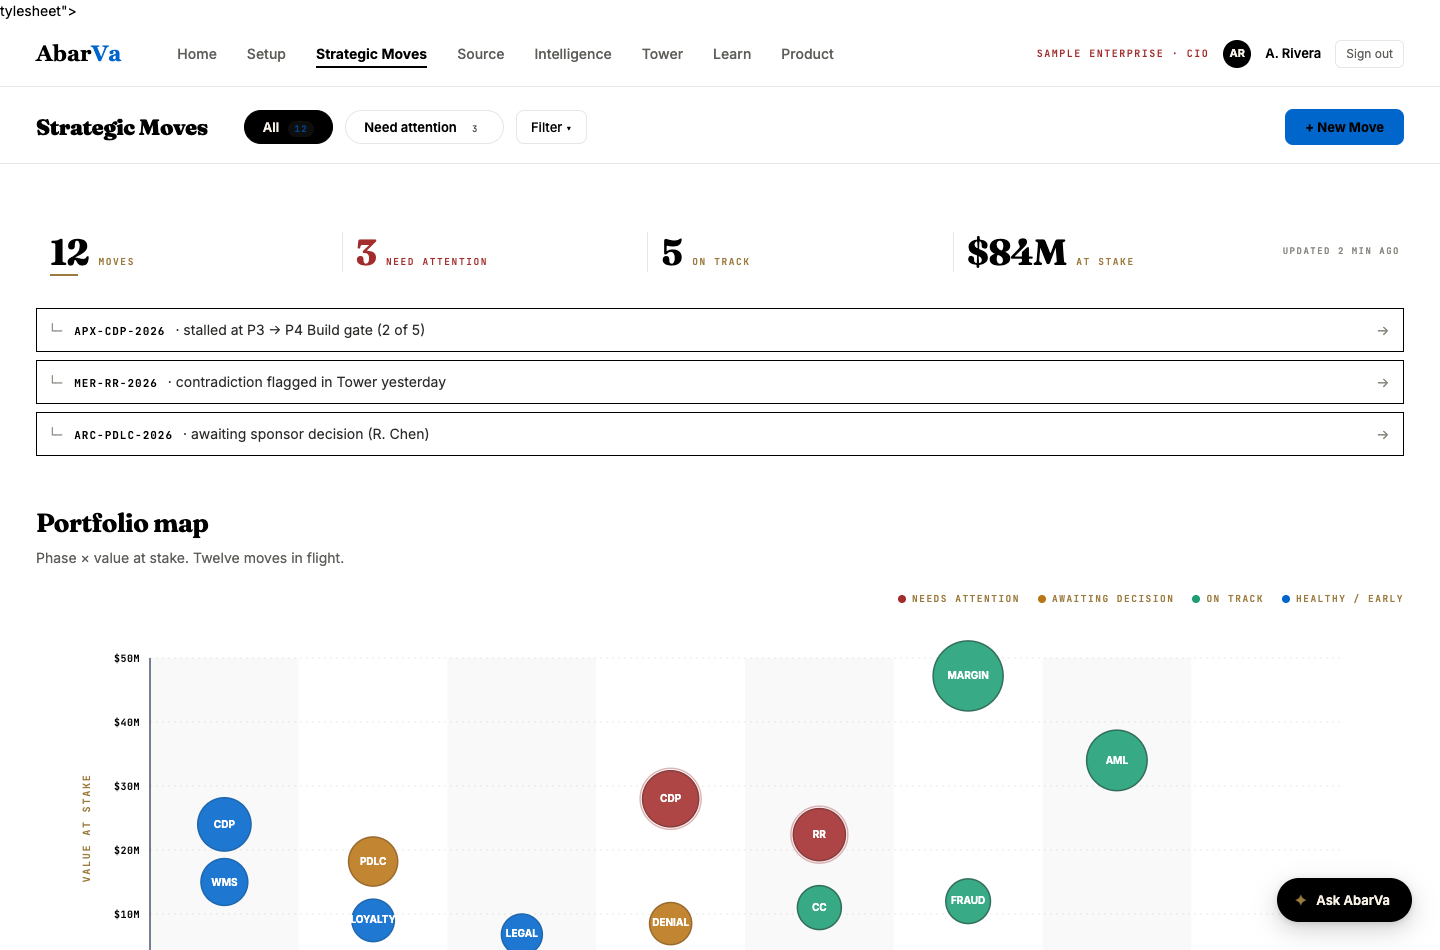
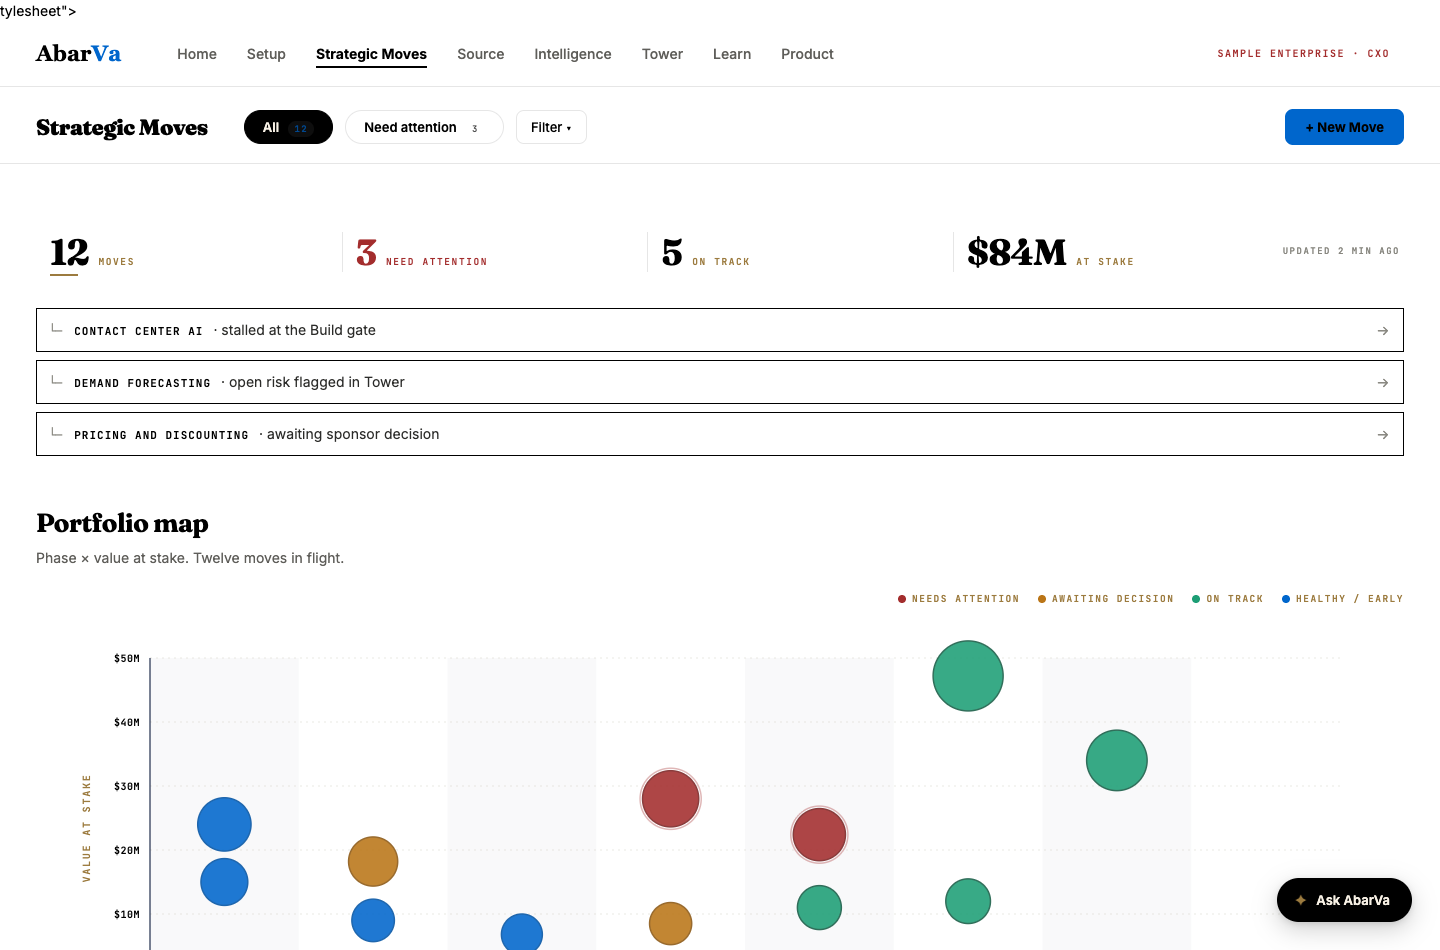
fix(marketing): polish private-preview hero and screenshot

diff --git a/src/components/marketing/LoggedOutLandingPage.tsx b/src/components/marketing/LoggedOutLandingPage.tsx
@@ -1459,11 +1459,12 @@ export function LoggedOutLandingPage({ signedOut = false }: LoggedOutLandingPage
               Private preview · founder-led
             </span>
             <h1 className="fb-head">
-              Turn AI ambition into <span className="grad">governed execution</span> and measurable value.
+              If your enterprise is spending on AI, and you&apos;re the CXO accountable,
+              <span className="grad"> prove which bets deserve to scale</span>.
             </h1>
             <p className="fb-sub">
-              AbarVa helps enterprise leaders decide which AI bets deserve funding, turn them into
-              governed programs, source with leverage, and prove whether value actually landed.
+              AbarVa helps executives see which AI bets are real, which ones need more evidence,
+              and how to move from ambition to governed execution and measurable value.
             </p>
             <div className="fb-cta">
               <button className="btn btn-prime" type="button" onClick={openReq}>

diff --git a/docs/releases/records/2026-06-11-private-preview-landing.md b/docs/releases/records/2026-06-11-private-preview-landing.md
@@ -10,7 +10,7 @@
 `candidate`
 
 ## Plain-English Summary
-Replaces the signed-out marketing landing page (`LoggedOutLandingPage`) with the new founder-led private-preview design: a product-led hero (dark gradient, the real Strategic Moves screenshot, and a connected "three dimensions of value" — Decide / Source / Prove), a graphical "Picture this" three-moment section, the five surfaces, and a "Request access" call to action. No AI-generated human imagery is used; visuals are the real product screenshot and abstract brand graphics.
+Replaces the signed-out marketing landing page (`LoggedOutLandingPage`) with the new founder-led private-preview design: a product-led hero (dark gradient, a no-PII Strategic Moves screenshot, and a connected "three dimensions of value" — Decide / Source / Prove), a graphical "Picture this" three-moment section, the five surfaces, and a "Request access" call to action. No AI-generated human imagery is used; visuals are the product screenshot and abstract brand graphics. The hero copy now addresses the accountable CXO directly instead of using generic AI-ambition framing.
 
 Adds a real backend for the "Request access" form: a public, unauthenticated `POST /api/request-access` that validates a work email, stores the lead in a new `access_requests` table (durable), and notifies `admin@abarva.ai` via Resend. Both the store and the email are best-effort; in production the request only fails if the lead was captured nowhere.
 
@@ -27,19 +27,22 @@ Adds a real backend for the "Request access" form: a public, unauthenticated `PO
 - Feature flag: none
 
 ## Changes Included
-- `src/components/marketing/LoggedOutLandingPage.tsx` — rewritten to the new private-preview design (styled-jsx, no Tailwind), Request-access modal form (client state → `POST /api/request-access`), Option-2 logo from `/brand/`.
+- `src/components/marketing/LoggedOutLandingPage.tsx` — rewritten to the new private-preview design (styled-jsx, no Tailwind), Request-access modal form (client state → `POST /api/request-access`), Option-2 logo from `/brand/`, and CXO-accountable opening copy.
 - `src/app/api/request-access/route.ts` — new public POST: validate (work email), store in `access_requests`, email `admin@abarva.ai` via Resend (`replyTo` the requester). Default sender is the verified `support@send.abarva.ai` subdomain, with `RESEND_FROM_EMAIL` available as an Azure env override. Best-effort; 500 only if nothing captured in prod.
 - `src/proxy.ts` — `'/api/request-access(.*)'` added to `PUBLIC_ROUTE_PATTERNS`.
 - `supabase/migrations/20260611193000_access_requests.sql` — new `access_requests` table + indexes + RLS (service-role only).
-- `public/marketing/*` — real product screenshot (`moves-real.png`) and abstract brand graphics (`accent.png`, `surf-*.png`). No AI-human imagery.
+- `public/marketing/*` — no-PII product screenshot (`moves-real.png`) and abstract brand graphics (`accent.png`, `surf-*.png`). No AI-human imagery.
 
 ## QA / Validation
 - PASS — form fields cover name, work email, company, role, company size, industry, org type (enterprise vs SI/advisory), optional initiative.
 - PASS — `npx jest src/app/api/request-access/__tests__/route.test.ts --runInBand`; verifies the verified `send.abarva.ai` default sender and `RESEND_FROM_EMAIL` override.
 - PASS — `npx eslint src/app/api/request-access/route.ts src/app/api/request-access/__tests__/route.test.ts`.
 - PASS — static design validated in the browser during implementation (hero, three-dimension stack, graphical Picture-this section, modal form, footer logo).
-- PENDING LIVE OPS — migration `20260611193000_access_requests.sql` must apply on ACA/VNet before durable storage is proven live. The API route fails soft if the table is not yet present (logged, falls back to email).
-- PENDING LIVE OPS — email path requires `RESEND_API_KEY` and the verified sender domain. Without it, leads are still stored and dev/test logs are used.
+- PASS — `moves-real.png` was replaced with the no-PII clean screenshot asset (`~/Downloads/_moves-clean.png`), showing only "Sample Enterprise · CXO" and no personal name, avatar, or sign-out control.
+- PASS — live Azure migration applied and verified against `abarva_control`; `access_requests` exists.
+- PASS — live Azure revision served `/`, `/signed-out`, and `/api/health` with 200 responses and Azure/Postgres health.
+- PASS — live `POST /api/request-access` rejected a free-email test with 422 and accepted a timestamped work-email test with 200 `{ ok: true }`.
+- PASS — fresh revision logs showed no request-access store/email failures and no Vercel or Supabase host strings.
 
 ## Rollout Plan
 1. Apply `supabase/migrations/20260611193000_access_requests.sql` to the Azure/Postgres control plane through the private ACA/VNet migration job.
@@ -48,12 +51,12 @@ Adds a real backend for the "Request access" form: a public, unauthenticated `PO
 4. Deploy the branch image to Azure Container Apps and route traffic through the normal active revision process.
 5. Browser-test `/`, `/signed-out`, valid request-access submit, invalid/free-email submit, durable `access_requests` row creation, and real Resend notification delivery.
 
+Rollout through PR #3412 completed on 2026-06-12. This follow-up polish updates the CXO opening copy and no-PII product screenshot only.
+
 ## Rollback Plan
 Revert the component to the previous `LoggedOutLandingPage`, remove the public-route entry and the API route, then redeploy the prior image. The `access_requests` table is additive and can be left in place; if legal/ops requires removal, export any captured leads first and then drop the table in a separate controlled data-plane rollback.
 
 ## Known Gaps
-- Durable storage is not live until the Azure migration is applied and verified against the private control-plane database.
-- Real email delivery is not live until `RESEND_API_KEY` is present and the sender domain is verified/bound in Azure env.
 - The route is public by design; abuse protection beyond work-email validation/rate limiting is not part of this slice.
 
 ## Audit Evidence
